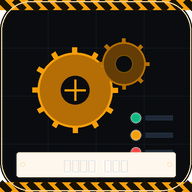
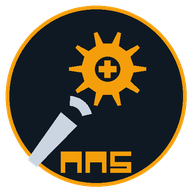
Add files via upload

diff --git a/index.html b/index.html
@@ -656,7 +656,7 @@ body.light .sec-title::after{background:#d4d9e2;}
 <!-- TOPBAR -->
 <div class="topbar">
   <div class="tl">
-    <div class="tlogo" style="font-size:10px;">설비관리</div>
+    <div class="tlogo" style="font-size:11px;letter-spacing:0;">MMS</div>
     <div class="ttitle">Maintenance <span>History</span></div>
   </div>
   <div class="tr">

diff --git a/sw.js b/sw.js
@@ -1,4 +1,4 @@
-const CACHE = 'mms-v32';
+const CACHE = 'mms-v34';
 const ASSETS = [
   './index.html',
   './manifest.json',